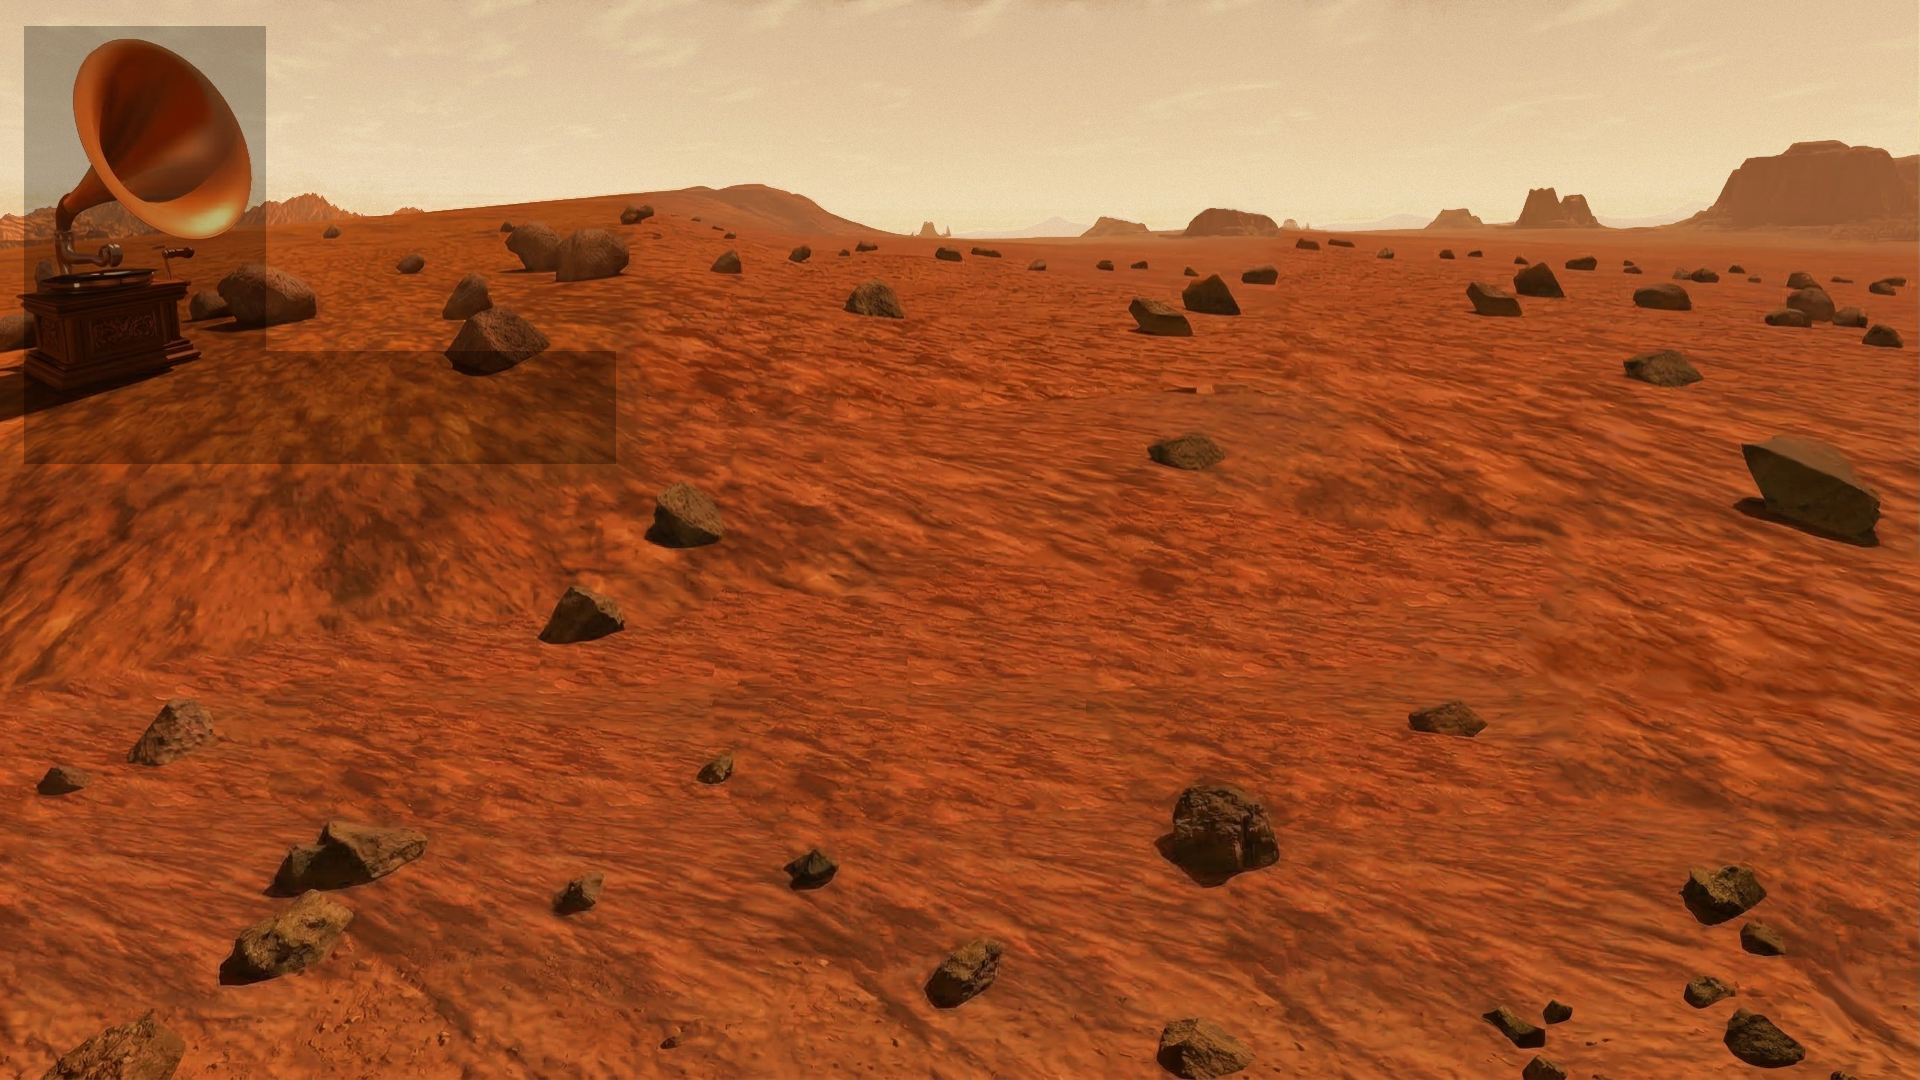
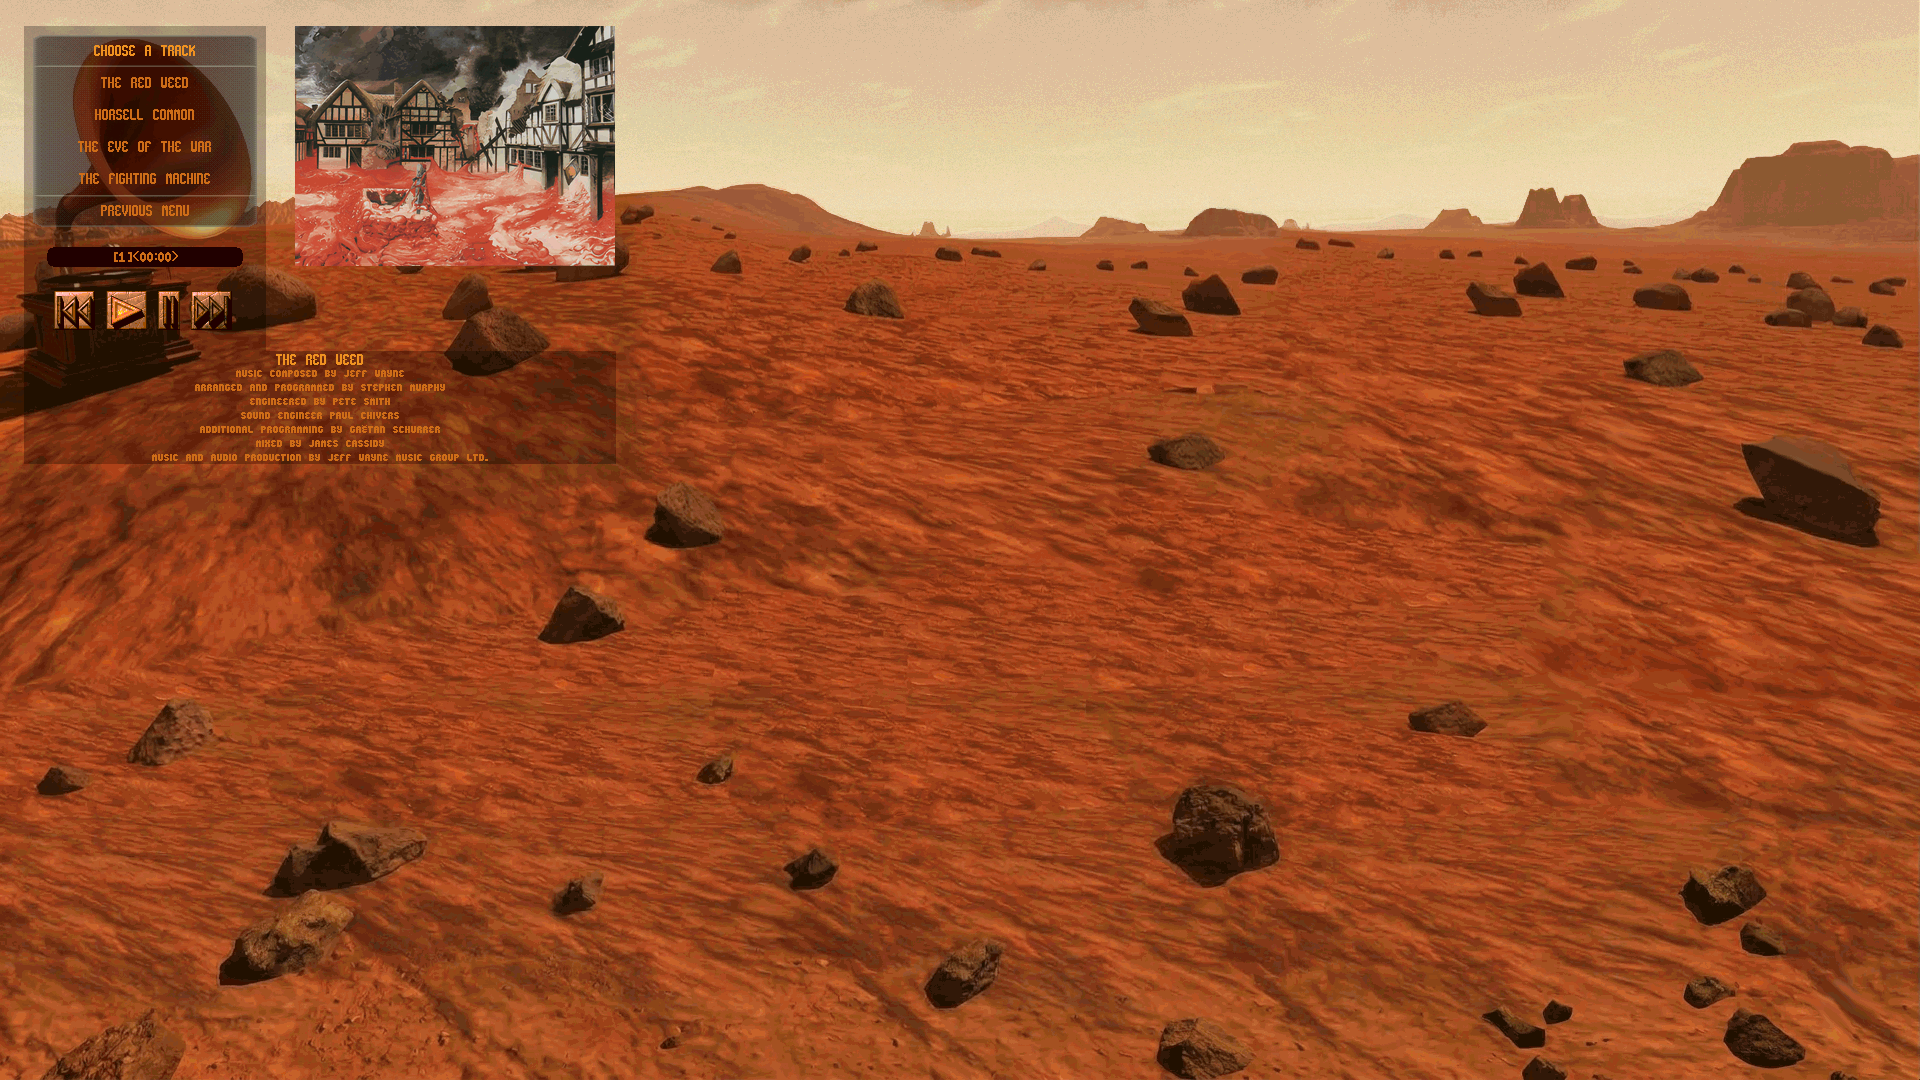
cd player menu comparison

Changed region(s): [[0.0, 0.0, 0.3438, 0.3056], [0.0938, 0.3056, 0.25, 0.4278]]

diff --git a/README.md b/README.md
@@ -129,7 +129,7 @@ The road map for this project.
 	- Custom Smackw32.dll that plays upscaled videos at the games resolution.
 	- Simple 1920x1080 upscales of all the original videos which get scaled to the games resolution.
 	- Includes code for hijacking the credits sequence so that it doesn't crash and creating an overlay to display the credits sequence.
-- [❌ 13 : Custom Extended Backgrounds](#custom-extended-backgrounds) ( 90% Complete )
+- [❌ 13 : Custom Extended Backgrounds](#custom-extended-backgrounds) ( 92% Complete )
 	- Resolution agnostic custom backgrounds have been made but have yet to be finished.
 	- Extended width of the war map, this allows higher resolutions to work.
 	- Martian war map now shows Europe in the bottom right corner.
@@ -321,10 +321,16 @@ These are a work in-progress, AI (Gemini) was used to generate portions of the e
 
 There is still a lot of cleanup left to do before these images are viable for use, but I have done my best to try and ensure that they are resolution agnostic and people using different resolutions won't miss out on much.
 
-CD Player Menu
+CD Player Menu - Expanded
 
 <div align="center">
   <img src="images/custom-cd-player.png" alt="CD Player Menu">
+</div>
+
+CD Player Menu - Original
+
+<div align="center">
+  <img src="images/custom-cd-player-original.png" alt="CD Player Menu - Original">
 </div>
 
 Human Briefing Menu
